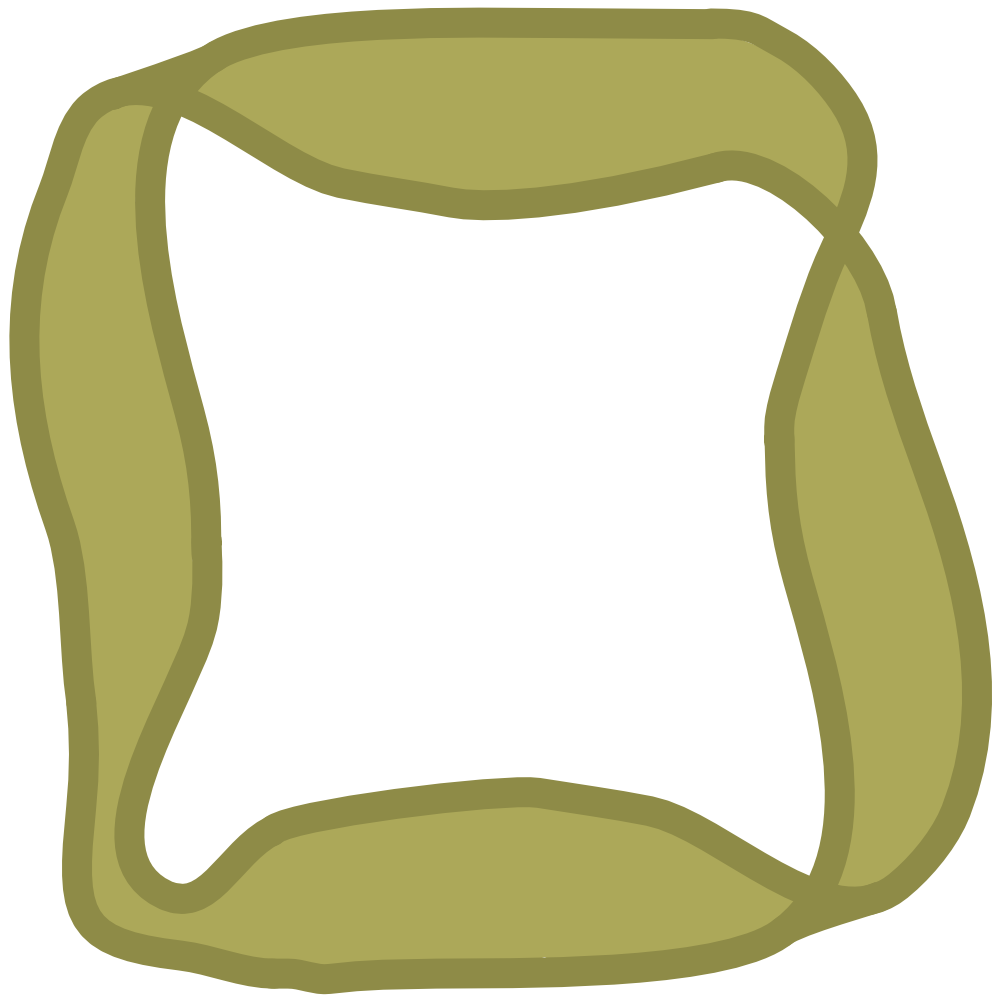
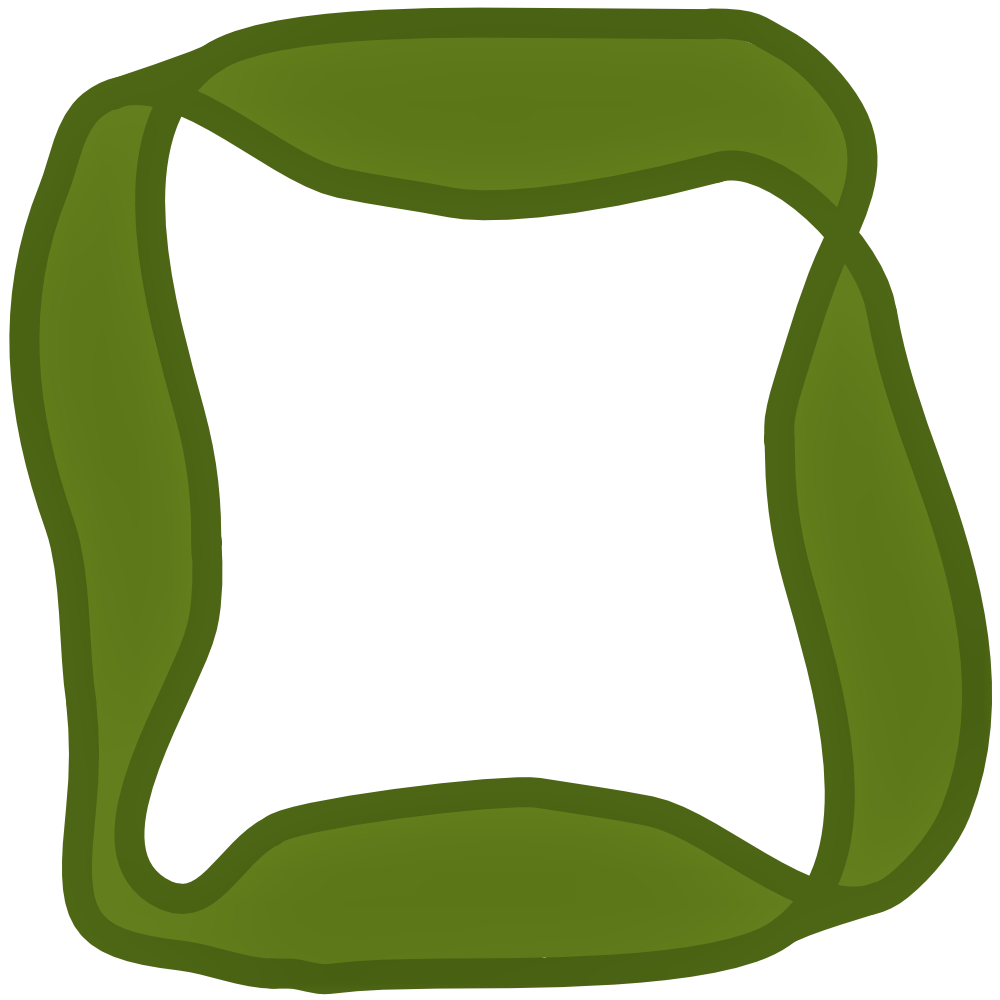
responsiveness ready, changed color of custom border, added real text

diff --git a/src/components/About/About.jsx b/src/components/About/About.jsx
@@ -20,12 +20,12 @@ class About extends Component {
                 <div className="testimonial">
                     <div className="title">About the idea</div>
                     <img className="profile" src={logo} alt="Logo"/>
-                    <p>For a long time my dad has made a big effort of saving the Christmas wrapping paper. 
-                        I'm talking about us trying to unwrapping the gifts more carefully (or as much as our excitement allows) so my dad can collect the paper, cut the whole pieaces of it and almost ironing it as well!
-                        Close to last christmas I started to think this wasn't the most useful way of not wasting all that paper and started thinking about reusable packaging.
-                        The idea isn't new but I didn't really like the look of whole bags and just using a cloth and a ribbon can be annoying trying to pair a nice and big enough cloth and ribbon.
-                        I started thinking of a way to stick the ribbon to the material in a convinient way. So whenever needed you could find a packaging and be sure it would fit the gift.
-                        Later the idea about having three different standardized gifts came, adapted to the three most famously common gifts.First prototype with stapler etc</p>
+                    <p>For a long time, my dad has made a big effort in saving the Christmas wrapping paper. 
+                        I'm talking about us trying to unwrapping the gifts more carefully (or as much as our excitement allows) so my dad can collect the paper and then the following days he spends trimming and organizing the paper.
+                        Close to last Christmas I started to think this wasn't the most useful way of not wasting all that paper and started thinking about reusable packaging.
+                        The idea isn't new but I didn't like the look of bags and just using a cloth and a ribbon can be annoying trying to pair a nice and big enough cloth and ribbon.
+                        I started thinking of a way to stick the ribbon to the material in a convenient way. So whenever needed you could find a packaging and be sure it would fit the gift.
+                        Later the idea about having three different standardized gifts came, adapted to the three most famously common gifts.</p>
                 </div>
             </div> 
         );

diff --git a/src/components/Tabs/HowToMakeInstructions.js b/src/components/Tabs/HowToMakeInstructions.js
@@ -23,12 +23,12 @@ const instructions = [
         img: sauma4
     },
     {
-        text: (<p>Now your reusable gift wrapping is ready but it might be fun with a thicker fabric in a lighter color to add instructions with a permanent pen. Make sure to test that the pen is not visible on the other side beforehand on an extra piece of the same fabric. On the picture, there is an example of instructions but you could additionally write "Reuse me!" or the URL to the extra instructions (regift.huldalilja.com).
+        text: (<span>Now your reusable gift wrapping is ready but it might be fun with a thicker fabric in a lighter color to add instructions with a permanent pen. Make sure to test that the pen is not visible on the other side beforehand on an extra piece of the same fabric. On the picture, there is an example of instructions but you could additionally write "Reuse me!" or the URL to the extra instructions (regift.huldalilja.com).
             <br/><br/>Extra Tips: <br/>- Reuse old clothes, cloths or scarfs for this!
             <br/>- It would also be super cute to knit or crochet the square instead of using fabric and then use cordage instead of a ribbon.
             <br/>- Cut the sides where the ribbons are in triangles, making it even easier for folding when used.
             <br/>- For extra hard shaped gifts or more stiff fabric, it's also possible to cut the ribbon in two parts and half of it again in two. With two quarters in the original place but the second half sewed from the middle to the middle of the folded side, on the outside of the fabric. When wrapping, instead of making the crossing, simply wrap the two ribbons around the gift and make two bows (for a nice look, but the two second ribbons under the first one before making the bow).
-            </p>
+            </span>
             ),
         img: sauma5
     }

diff --git a/src/components/Gallery/Gallery.css b/src/components/Gallery/Gallery.css
@@ -9,7 +9,7 @@
   border-style: solid;
   padding: 15px 28px;
   color: var(--primary-color);
-  width: 45%;
+  width: 30%;
   position: relative;
   margin: auto; 
   background-color: var(--secondary-bg-color);
@@ -119,16 +119,16 @@
 
 @media screen and (max-width: 1000px) {
   .carousel-container {
-    width: 70%; } }
+    width: 50%; } }
 
 @media screen and (max-width: 700px) {
   .carousel-container {
-    width: 100%; } }
+    width: 70%; } }
 
 @media screen and (max-width: 505px) {
   .text {
     height: 170px;
-    width: 95%; } }
+    width: 75%; } }
 
 @media screen and (max-width: 400px) {
   .text {

diff --git a/src/components/Gallery/Gallery.jsx b/src/components/Gallery/Gallery.jsx
@@ -72,6 +72,7 @@ class Gallery extends PureComponent {
         return (
             <div id="ActivitiesDiv" style={{ marginTop: 80 }}>
                 <div className="title carousel-title">How it looks</div>
+                <p style={{textAlign: "center"}}>Send me your results to hulda@huldalilja.com so I can feature it here!</p>
                 <div className="carousel-container">
                     <a href="./" className="anchor" id="Activities">a</a>
                     <img className={imgClassNames} alt="" src={this.slides[this.state.slideIndex].img}/>

diff --git a/src/components/Tabs/HowToUseInstructions.js b/src/components/Tabs/HowToUseInstructions.js
@@ -33,9 +33,9 @@ const instructions = [
         img: pakka6
     },
     {
-        text: (<p>Flip the gift to the opposite side and make a nice bow with the ribbon. Your gift is ready to put a smile on someone's face!
+        text: (<span>Flip the gift to the opposite side and make a nice bow with the ribbon. Your gift is ready to put a smile on someone's face!
             <br/><br/>Tip: If the rest of the ribbon is really long you can make a double bow.
-        </p>),
+        </span>),
         img: pakka7
     }
 ]

diff --git a/src/App.css b/src/App.css
@@ -29,6 +29,7 @@
   margin-bottom: 20px;
   float: left;
   min-width: 400px;
+  max-width: 500px;
 }
 
 a {
@@ -88,7 +89,7 @@ p {
     float: none;
     margin: auto;
     margin-bottom: 20px;
-    max-width: 500px;
+    min-width: 100%;
   }}
 
 @media (prefers-reduced-motion: no-preference) {

diff --git a/src/components/About/About.css b/src/components/About/About.css
@@ -35,7 +35,7 @@
 @media (max-width: 700px) {
   .testimonial {
     text-align: center;
-    width: 90%; }
+    width: 75%; }
   .testimonial img {
     display: block;
     margin: auto;
